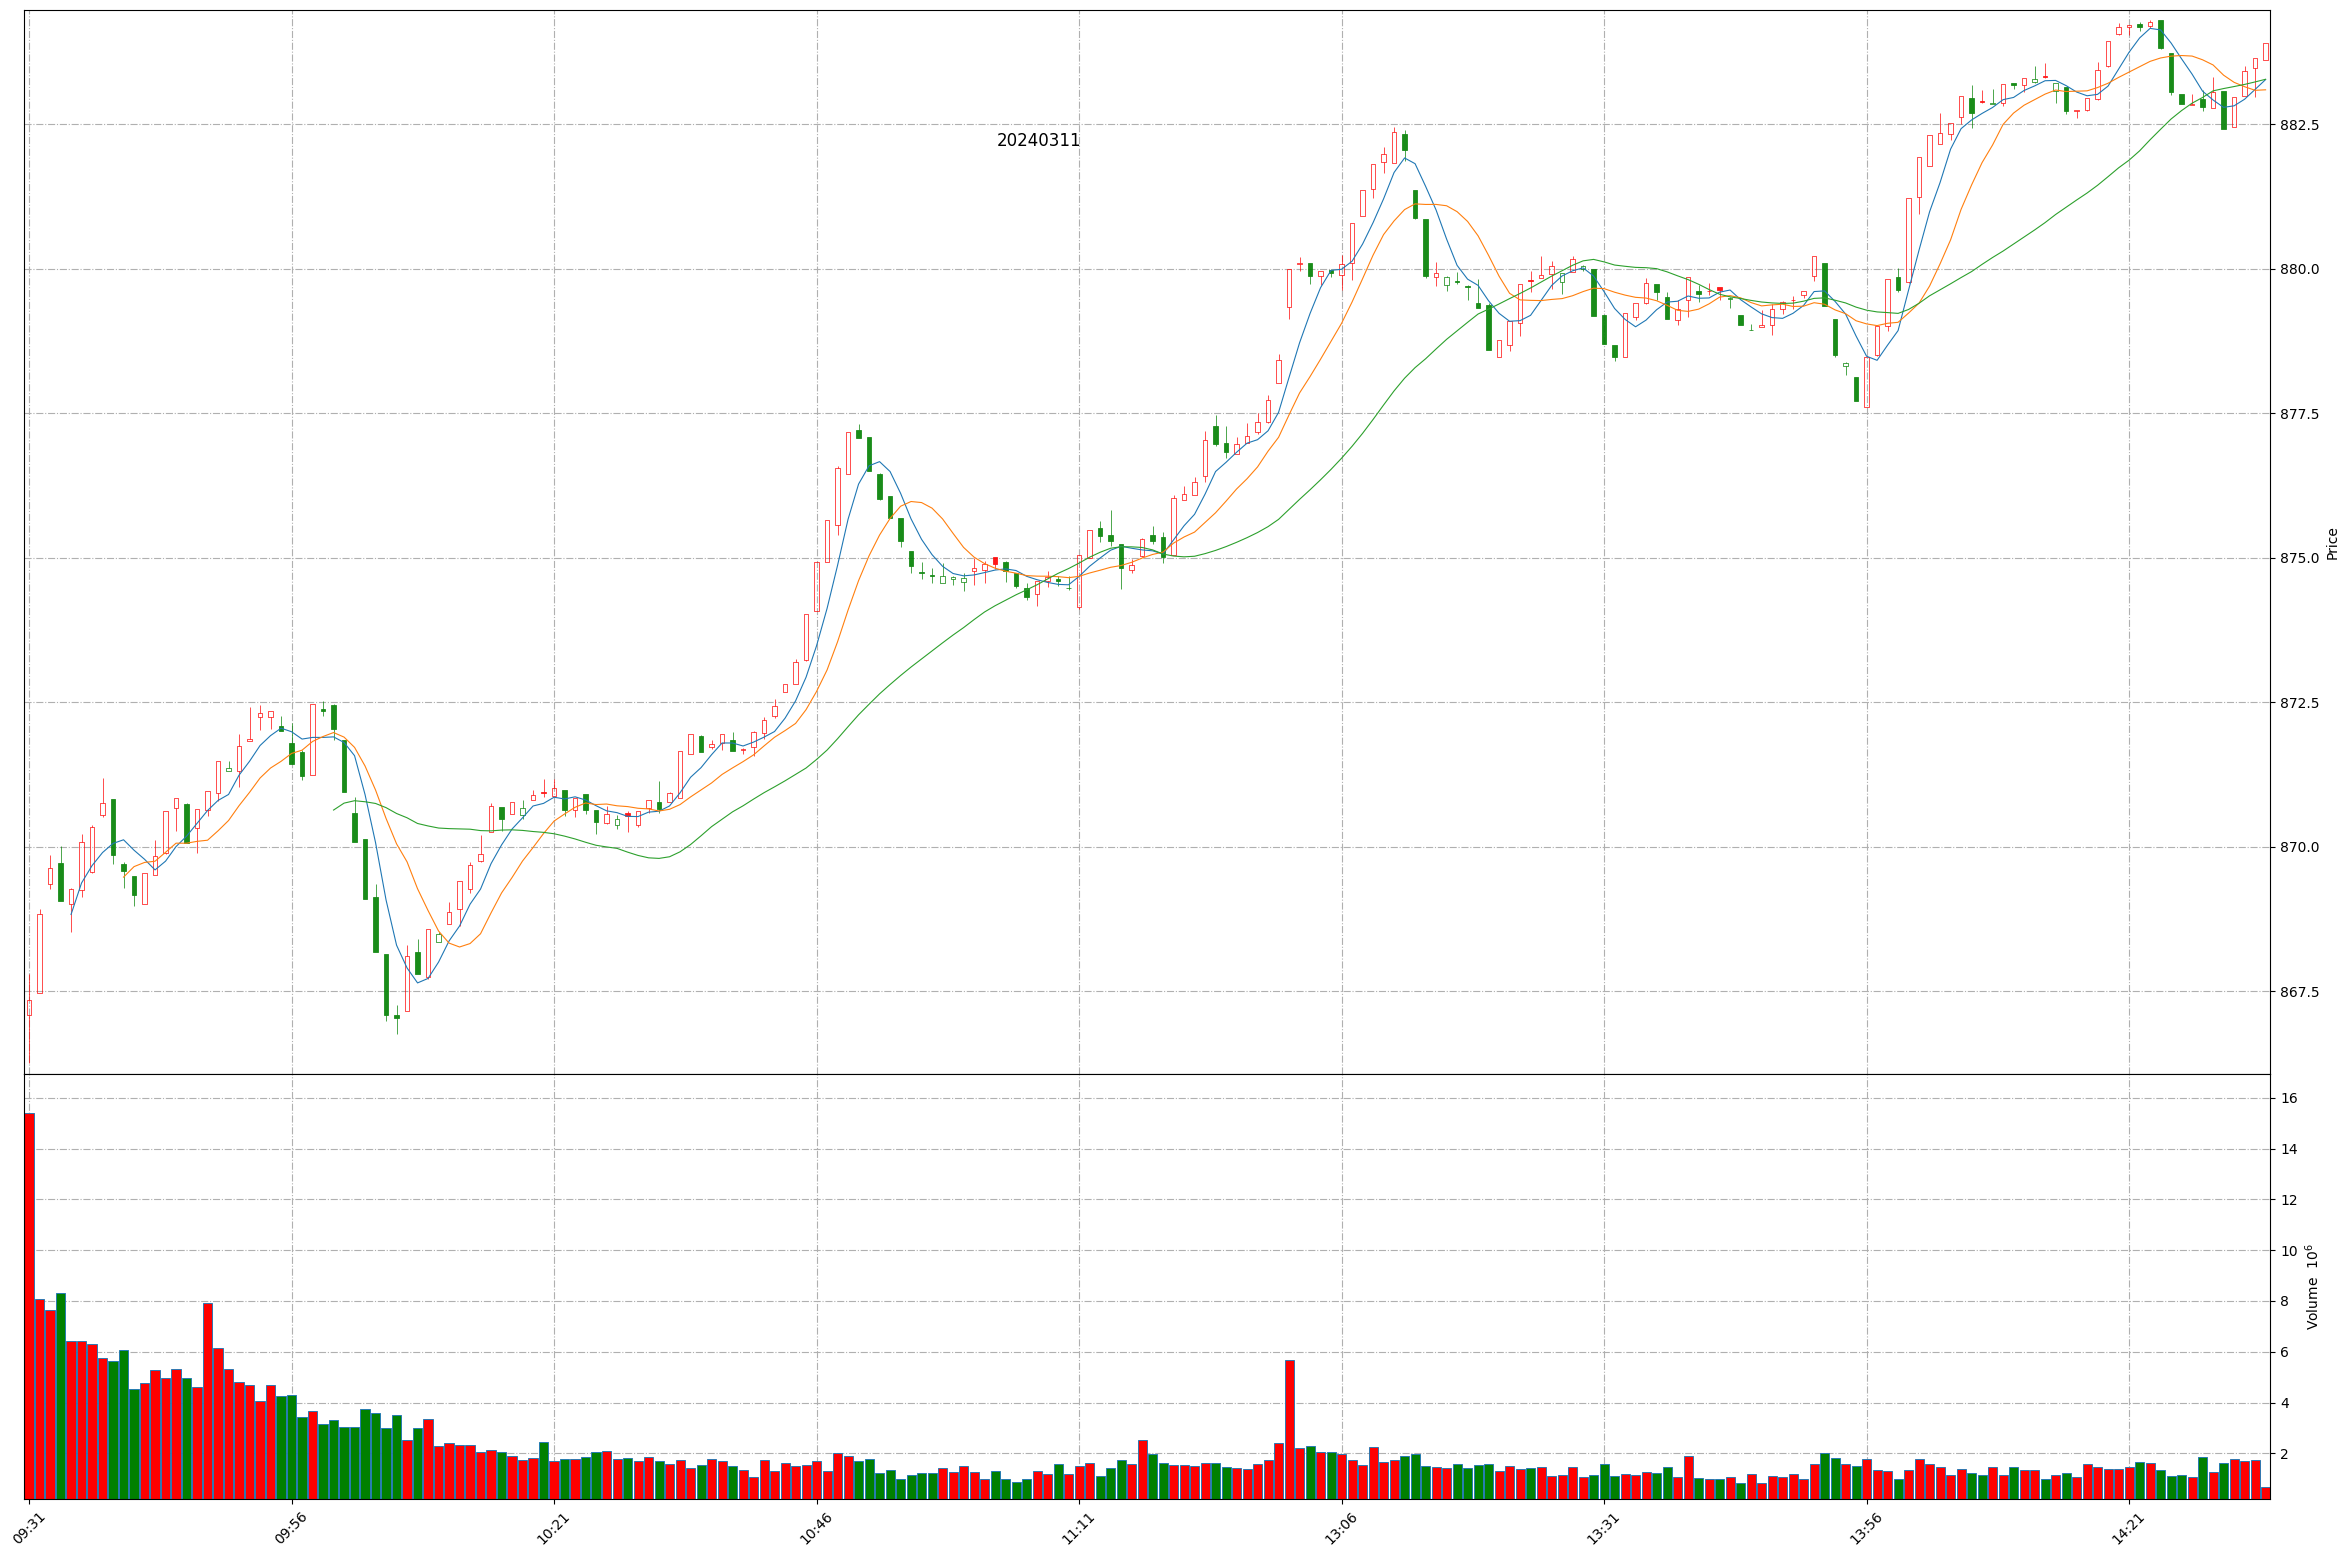
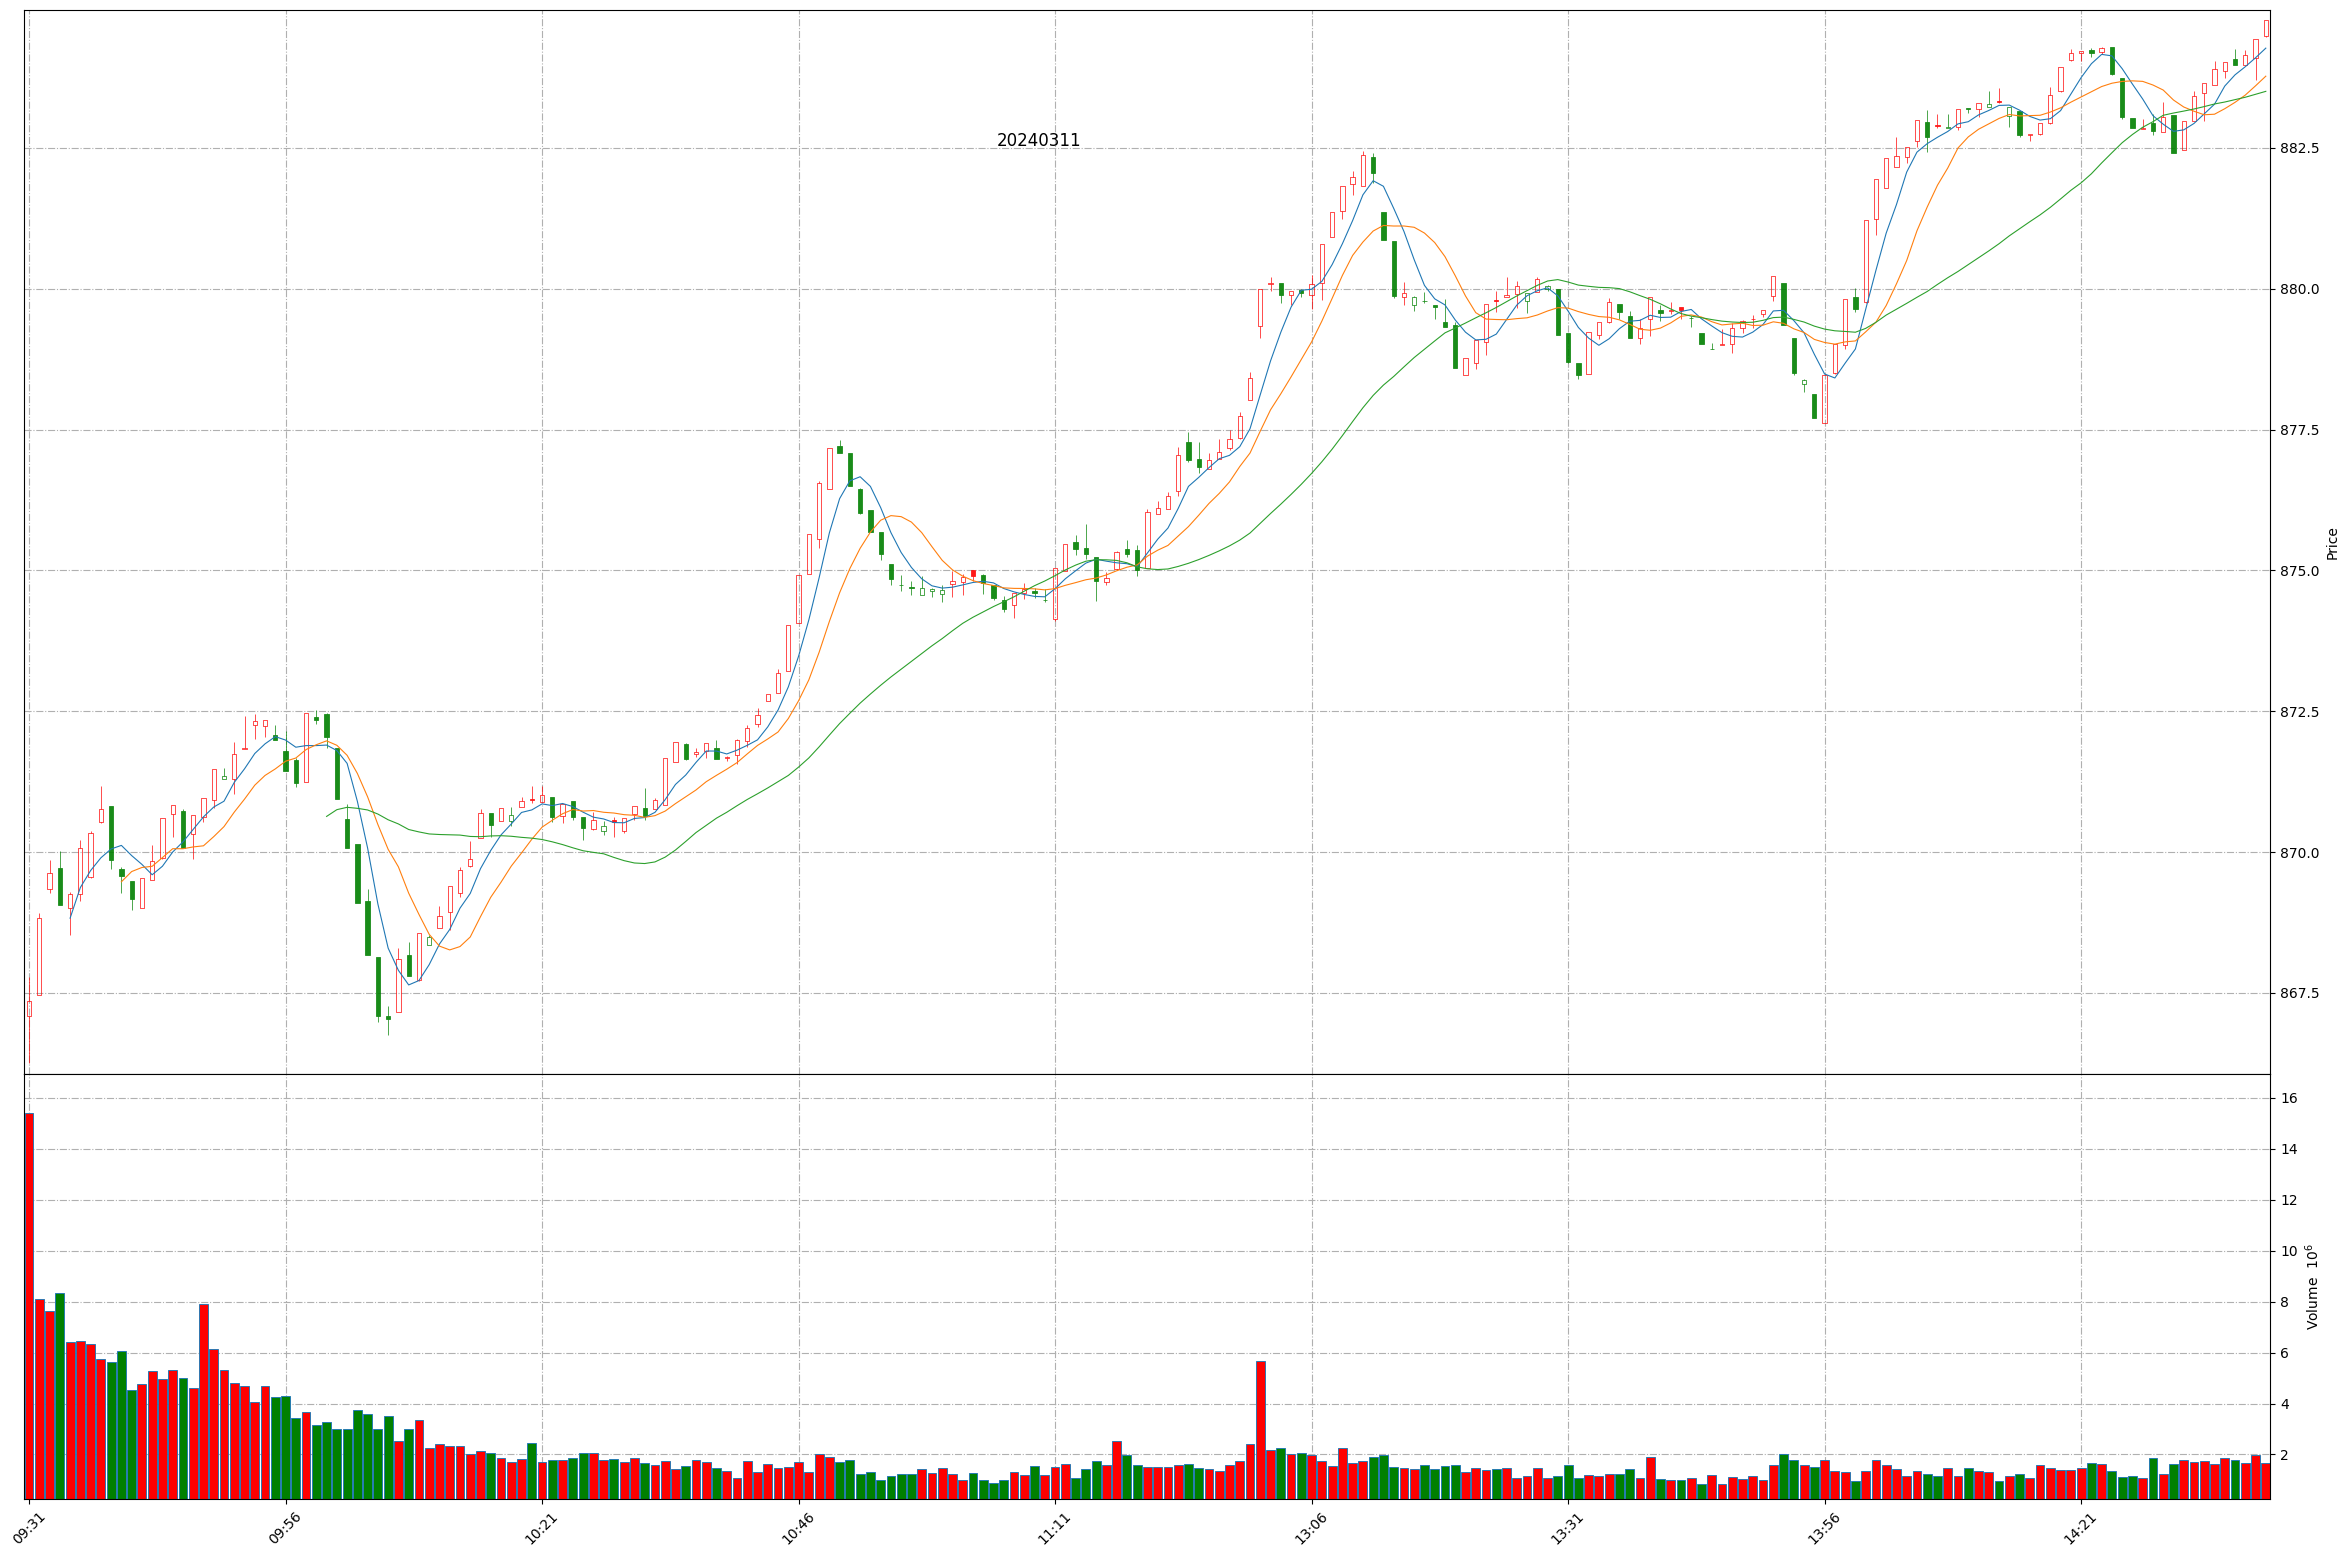
Github action update at 2024-03-11 14:39:18.

diff --git a/README.md b/README.md
@@ -1,11 +1,11 @@
 
 # Daily-A-share-market-quotes 每日 A 股指数（5min 更新）- 20240311
 
-### 上证指数 20240311 14:33
+### 上证指数 20240311 14:39
 ![](./fig/2024/3/20240311-sh000001.png)
 
-### 深证成指 20240311 14:33
+### 深证成指 20240311 14:39
 ![](./fig/2024/3/20240311-sz399001.png)
 
-### 北证50 20240311 14:33
+### 北证50 20240311 14:39
 ![](./fig/2024/3/20240311-bj899050.png)
